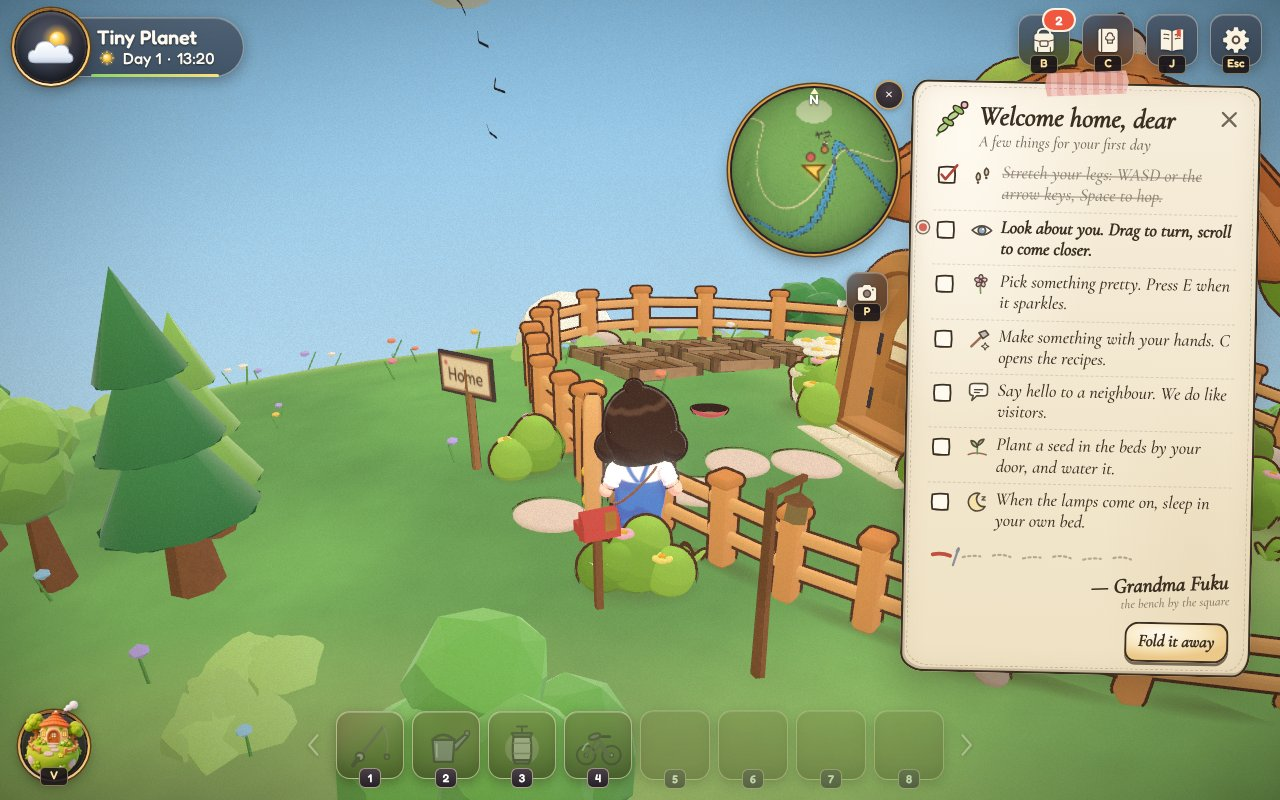
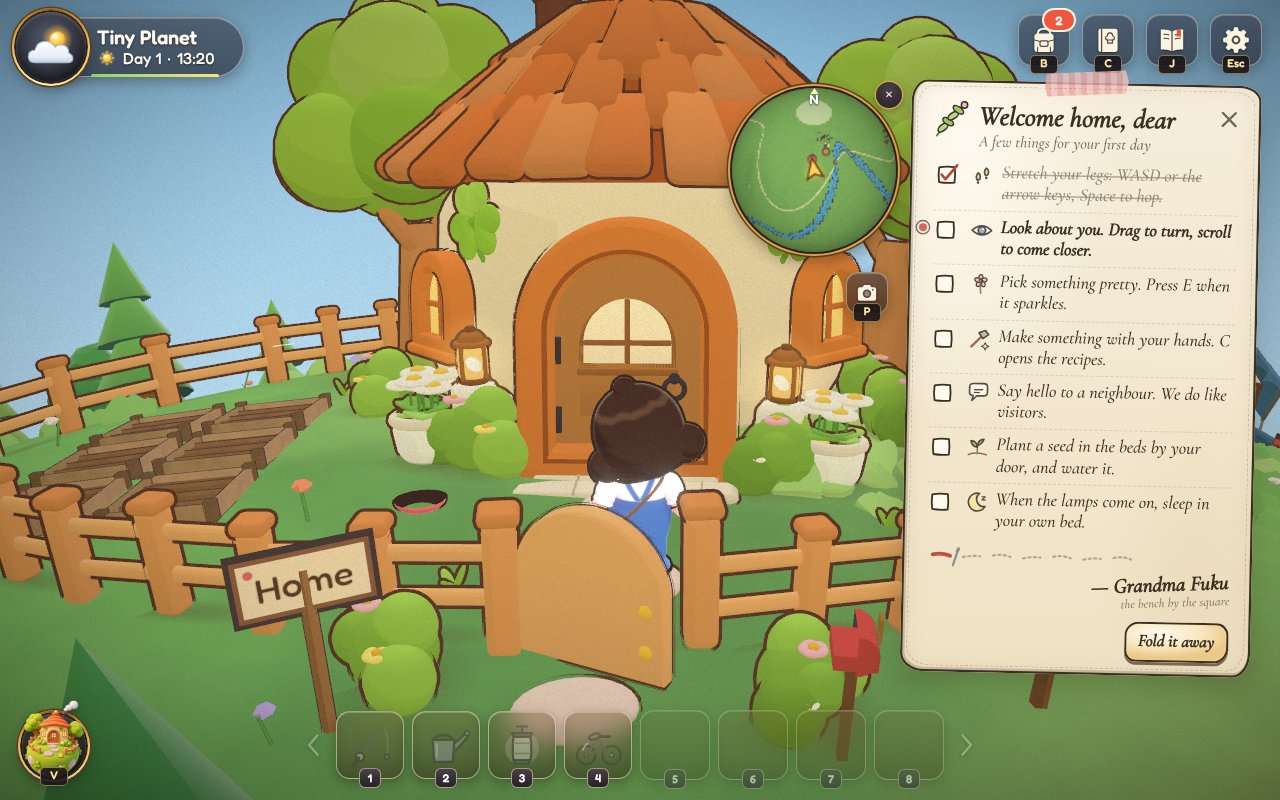
Docs: her home outside (cottage, fenced yard, reusable outdoor props); garden and bench locations
Claude-Session: https://claude.ai/code/session_01CNaBwK9YXZ5oYtTd2WVtoL

diff --git a/GAMEPLAY.md b/GAMEPLAY.md
@@ -31,7 +31,7 @@
 **Fishing:** cast, wait for a bite, then hold to reel and keep the net on the fish. It fills while the net is on the fish and slips only after a long miss. The bag stores one generic fish; the species log remembers which kind you caught.
 
 ## Crafting
-The bench is beside the house marked **Home**, near spawn. The Recipe Book shows every recipe:
+The bench is in the fenced yard beside her round cottage (the **Home** sign stands by the front gate), near spawn. The Recipe Book shows every recipe:
 - Recipes whose ingredients you haven't discovered show as "???".
 - Known recipes show counts and what's missing.
 - The Craft buttons only appear at the bench.
@@ -56,7 +56,7 @@ The Rope Bridge climbs the cliff on the side away from the lake. At the top is a
 **Decor:** tap a decor item in the Bag to place it. A ghost preview appears ahead of you. It is green when valid (within about 2.2 units of Home) and red otherwise. Stand next to placed decor and press E to pick it back up.
 
 ## The daily loop (Stage B)
-- **Garden:** six beds left of the Home sign. You start with 2 Seed Packets. Press E at an empty bed to plant a Seed Packet (turnip, carrot or herbs) or F for a Sky Seed (from the cliff-top chest). Water each bed once a day with the Watering Can. A bed that starts the morning watered grows one stage (seed → sprout → young → mature → ripe). Herbs take 2 watered days, turnips 3, carrots 4 and the Sky Seed 5. Dry days only pause growth. A ripe crop left for 3 mornings withers; clear the bed and replant. The harvest is 2 turnips, 2 carrots, 3 herbs, or 3 skyberries plus a Sky Seed back.
+- **Garden:** six beds inside the yard fence, left of the house (come in through the front gate). You start with 2 Seed Packets. Press E at an empty bed to plant a Seed Packet (turnip, carrot or herbs) or F for a Sky Seed (from the cliff-top chest). Water each bed once a day with the Watering Can. A bed that starts the morning watered grows one stage (seed → sprout → young → mature → ripe). Herbs take 2 watered days, turnips 3, carrots 4 and the Sky Seed 5. Dry days only pause growth. A ripe crop left for 3 mornings withers; clear the bed and replant. The harvest is 2 turnips, 2 carrots, 3 herbs, or 3 skyberries plus a Sky Seed back.
 - **Gifts and friendship:** near a villager press **G**, or tap **♥ Gift** in the dialogue box, then pick something from your bag. Each villager has loves, likes and dislikes based on their profile: love +1 heart, like +½, neutral +¼, dislike −¼, on a 0–5 scale. You can give one gift per villager per day. Hearts appear on the dialogue name plate, and friendlier villagers have extra lines. At 3 hearts they give you 2 Seed Packets, and at 5 hearts a Sky Seed.
 - **Errands board:** at the edge of the village square. One request on day 1, then two a day, pinned up each morning; unfinished ones are taken down. Take a note, bring the items, and hand them over for coins, seeds and hearts. From day 3, requests can ask for crops and cooked food.
 - **New recipes:** every item that had no use now has one. Acorn Cookie (acorns + rice), Pine Needle Tea (pinecones + water), Seed Packet (fluff + an Old Coin), Fluff Pillow, Wool Scarf, Crystal Lamp and Shard Charm (keepsakes that make good gifts). The crops are used too: Berry Jam from skyberries, Mushroom Soup from a turnip, a carrot and water, and herbs for tea.

diff --git a/ART_DIRECTION.md b/ART_DIRECTION.md
@@ -118,6 +118,14 @@ Villagers differ by body (tall / short / round / slim, toddler → hunched elder
 - Villagers fade through three LOD levels by camera distance (props and sleeves drop first, face detail next). Whole walkers are culled past the planet horizon and, in close views, past ~12 units.
 - A planet-wide **horizon cull** also hides world meshes on the far side (houses, trees, flowers) so the orbit overview stays under ~1,000 draw calls.
 
+## Her home, outside
+A chibi round cottage in its own fenced yard, matching the interior (same door, the stove's chimney back-left, windows near where they are inside).
+- **Cottage:** plump cream walls that bulge round the middle, a three-tier cone roof of chunky orange clay tiles with a donut-and-ball knob, the tiles a little uneven like hand-pressed clay (seeded, so the wobble is stable). Bright orange door arch and window frames, glowing panes, puffy three-leaf clovers on the wall under the eave.
+- **Entrance:** the interior's own pieces: lantern posts on stacked stones beside the door, stone steps with a mat, daisy pots, bushes. Flowering bushes round the foot of the wall.
+- **Yard:** two broccoli-crowned puffy trees behind the house, stepping stones to a plank gate in an oval wooden fence, the crafting bench and the six crop beds inside, the Home sign and mailbox just outside the gate. Rocks and grass sprouts dotted about.
+- **Assets:** all reusable chibi props (`src/props/items/exterior.js`: `cottage`, `puffTree`, `flowerBush`, `fence`, `gate`, `stepStone`, `rocks`, `sprout`) with options for colours, sizes, window layout, roof tiers and unevenness; preview any of them at `/propstudio.html?id=<name>`. The yard composes them into one baked mesh (`src/home/Exterior.jsx`); layout numbers live in `src/home/yard.js`.
+- **Views:** `?view=zone&z=home`, `z=home-garden`, `z=home-yard`.
+
 ## Gather & Craft UI
 - Panels use warm watercolour paper (a radial cream gradient) with a 2.6px ink border (#4a3a35), wobbly uneven corner radii and an inner dashed stitch line.
 - All text is set in Fredoka.

diff --git a/README.md b/README.md
@@ -75,6 +75,7 @@ You can use the stick and buttons together with several fingers. Supported devic
 - **Fishing:** cast, wait for a bite, then hold to reel. Keep the net on the fish. Twelve species, one generic fish in the bag.
 - **Crafting:** 12 recipes across tools (Rod, Watering Can, Lantern), food, decor and the Rope Bridge unlock, which leads to a clifftop picnic spot with a chest. Undiscovered recipes show as "???".
 - **Decor placement** near Home, with a green/red ghost preview; press E to pick it back up.
+- **Home:** a chibi round cottage in a fenced yard with puffy trees and the crop garden (see ART_DIRECTION.md, "Her home, outside").
 - **Daily loop (Stage B):** a six-bed garden with growth over in-game days, gifts and friendship hearts with all 22 villagers, a daily errands board, recipes for every leftover item, food buffs (swift, cozy, lucky), ambient sound with a procedural Ghibli-style score (a different piece outdoors, at home, in the museum and on the train) and activity sound effects, and settings for volume, mute and text size. See [GAMEPLAY.md](GAMEPLAY.md).
 - **Relaxing + world (Stage C):** a calmer fishing reel with 12 species and a catch card, seasons every 7 in-game days and seeded rain days, train rides between two stations, photo mode (free camera, filters, PNG + journal album), a collection journal, ruins dig spots and Professor Hoshino's museum, and Grandma's first-day note.
 - **Day cycle and saves:** items respawn each in-game sunrise (one day is one real hour); progress, including the time of day, saves to localStorage and carries over across reloads. Reset from the Bag or with `?reset`.
